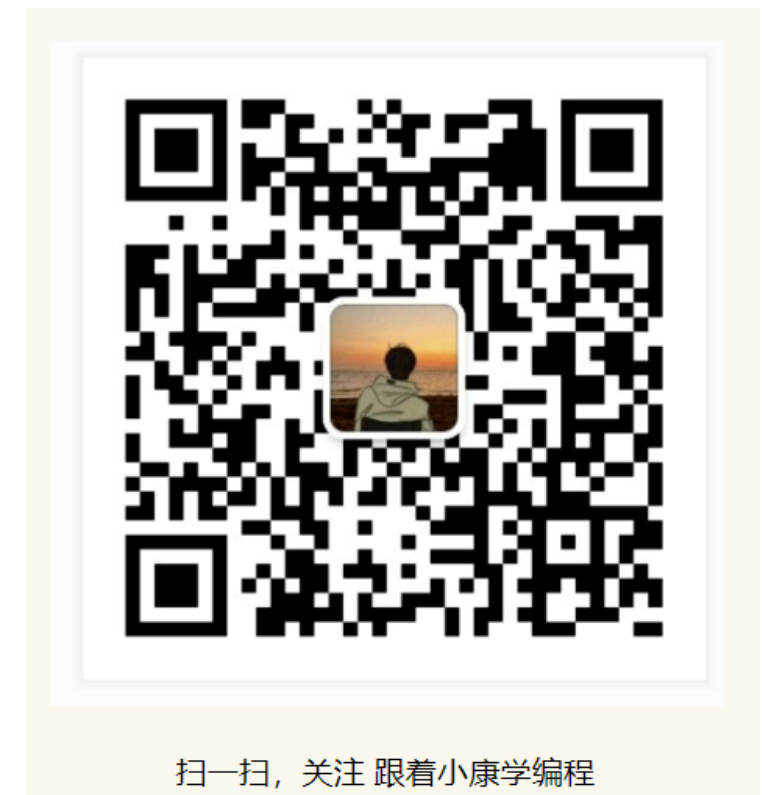
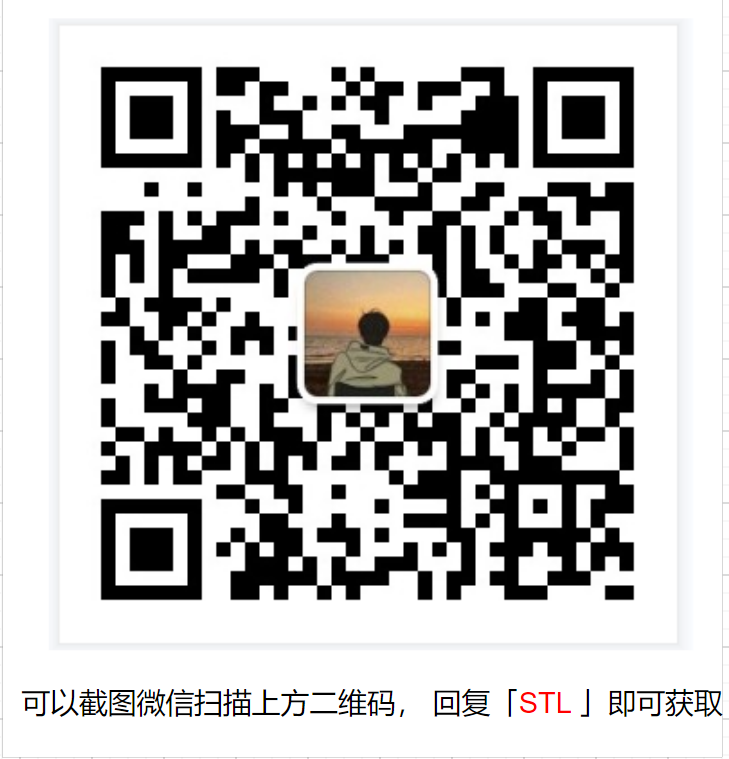
b

diff --git a/2024/02/04/stl/index.html b/2024/02/04/stl/index.html
@@ -27,7 +27,7 @@
 <meta property="og:image" content="http://example.com/2024/02/04/stl/xkvxgzh.png">
 <meta property="og:image" content="http://example.com/2024/02/04/stl/gzh.png">
 <meta property="article:published_time" content="2024-02-04T03:19:59.000Z">
-<meta property="article:modified_time" content="2024-04-09T13:55:05.899Z">
+<meta property="article:modified_time" content="2024-04-09T14:01:45.383Z">
 <meta property="article:author" content="小康">
 <meta property="article:tag" content="原创">
 <meta name="twitter:card" content="summary_large_image">
@@ -325,12 +325,12 @@
 <li>侯捷 STL 和 泛型编程</li>
 <li>侯捷 C++ 内存管理</li>
 <li>侯捷 STL 与泛型编程</li>
-<li>….</li>
 </ul>
 <img src="/2024/02/04/stl/STL.png" srcset="/img/loading.gif" lazyload class="" title="图片引用方法一">
+
 <p><br><br> </p>
 <blockquote>
-<p>在这里分享给大家，我放在公众号后台了，大家可以扫下方二维码关注「跟着小康学编程」公众号，后台回复「STL」，即可获取。</p>
+<p>在这里分享给大家，我放在公众号后台了，大家可以扫下方二维码关注「<strong>跟着小康学编程</strong>」公众号，后台回复「<strong>STL</strong>」，即可获取。</p>
 </blockquote>
 <p><br><br> </p>
 <img src="/2024/02/04/stl/xkvxgzh.png" srcset="/img/loading.gif" lazyload class="" title="图片引用方法一">
